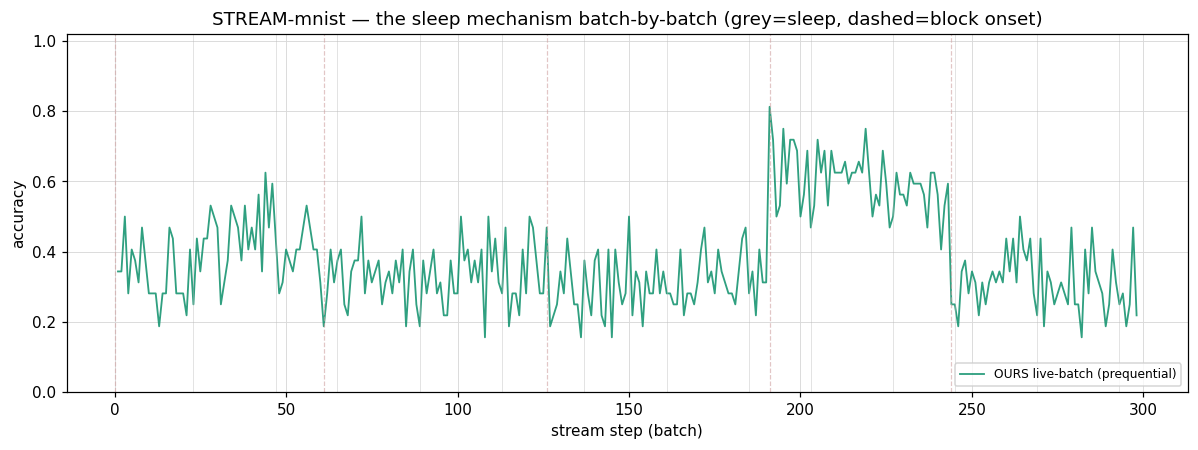
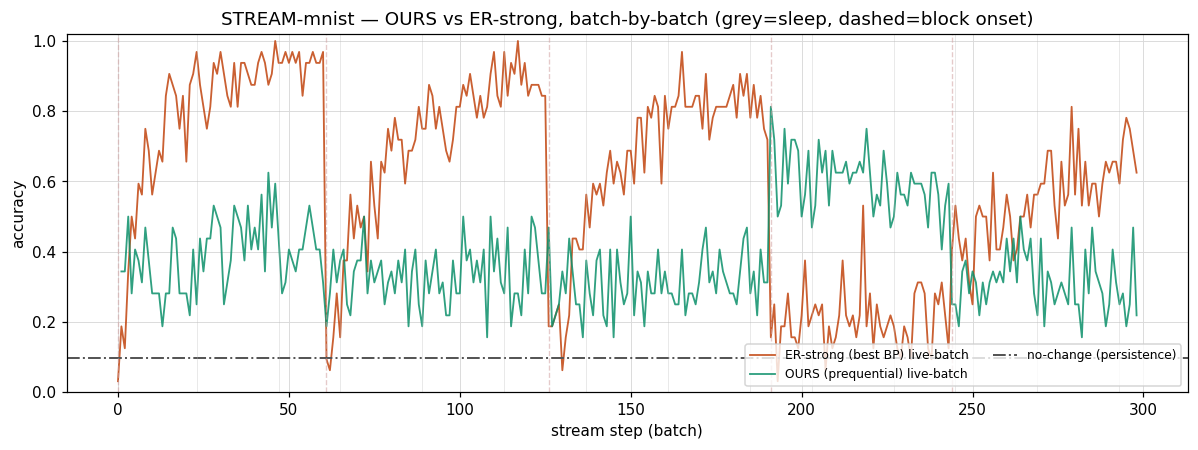
feat(draft6/phase11): overlay ER-strong on the P11.2 MNIST STREAM (the last figure made comparable)
Every stream figure below P11.2 now shows OURS vs ER-strong, which left the MNIST
rung's STREAM view (OURS only) reading as uncomparable. This adds the same
overlay so a reader can judge P11.2 the same way as the rest.

- run_p11_2 captures the stronger-ER per-batch prequential curve (bp_prequential,
  Arm-B long, seed 0 — same stream as the stored OURS curve) + the persistence
  floor. Backward-compatible; no RNG touched -> table reproduces bit-for-bit
  (verified against the committed manifest: zero scalar drift).
- fig_stream needed no change: mnist is a block-structured gauntlet (not in the
  band set), so it draws raw OURS vs ER + no-change + onsets, matching xdata.

The figure now draws the rung's tradeoff directly: ER (orange) rides higher
WITHIN each stationary domain but crashes at every domain switch (forget-and-
relearn sawtooth); OURS (teal) rides lower but far flatter, never collapsing at a
switch -> ER wins raw accuracy inside a domain, OURS wins stability across the
switches (long worst-BWT -0.046 vs ER -0.162, ~3.5x safer). Both clear persistence.

Docs: phase11-report §2 caption, README P11.2 line, exp2 card. Figure regenerated.

diff --git a/draft6.0/src/phase11/run_p11_2.py b/draft6.0/src/phase11/run_p11_2.py
@@ -30,7 +30,10 @@ def gauntlet_fight(arm, cfg, regime, seeds, er_cfg):
         out["ours"]["aa"].append(res["aa"]); out["ours"]["worst_bwt"].append(res["worst_bwt"]); out["ours"]["ret"].append(r["worst"])
         if seed == seeds[0]:
             pq = P.ours_prequential(cache, res, cfg, seed)
-            curves = dict(live=pq["live"], sleeps=res["sleeps"].astype(float), onsets=np.array(stream["real_onsets"]))
+            er_pq = P.bp_prequential(stream, "er", er_cfg["bp_dims"], cfg, seed,     # ER overlay for the STREAM view
+                                     lr=er_cfg["lr"], replay=er_cfg["replay"], buffer_cap=er_cfg["buffer_cap"])
+            curves = dict(live=pq["live"], er_live=er_pq["live"], nochange=P.nochange_baseline(stream),
+                          sleeps=res["sleeps"].astype(float), onsets=np.array(stream["real_onsets"]))
         for pol in ["er", "naive"]:
             m = P.run_bp_stream(stream, pol, er_cfg["bp_dims"], cfg, seed, lr=er_cfg["lr"],
                                 replay=(er_cfg["replay"] if pol == "er" else 0),
@@ -79,6 +82,8 @@ for arm, cfg in [("A", P.arm_a_cfg(10)), ("B", P.recipe_instance(80, 10))]:
                                         er_aa=med(ea), er_bwt=med(eb), er_ret=med(err_))
         if regime == "long" and curves is not None:
             arrays[f"streamlive_ours_mnist"] = curves["live"]
+            arrays[f"streamlive_er_mnist"] = curves["er_live"]
+            arrays[f"nochange_mnist"] = np.array([curves["nochange"]])
             arrays[f"streamsleeps_ours_mnist"] = curves["sleeps"]
             arrays[f"stream_onsets_mnist"] = curves["onsets"]
     oi = order_inv(arm, cfg, er)

diff --git a/draft6.0/src/phase11/phase11-report.md b/draft6.0/src/phase11/phase11-report.md
@@ -133,10 +133,14 @@ does Arm B's larger input dimension recover any of the porthole's projection los
 
 ![P11.2 MNIST rung — the sleep loop batch-by-batch](exp2/figs_p11_2/STREAM_mnist.png)
 
-*The mandated STREAM view — the object's prequential accuracy on the native-MNIST gauntlet, batch by batch, sleeps in
-grey and domain switches in dashed pink. This is the author's ask made literal: watch the loop live, good moments and
-bad. The line rides the low-0.4s through the hard noised/transformed domains and lifts into the clean domain
-(batches ~190–240) — never collapsing at a switch. It is a **continual-stability** trace, not a static-accuracy one.*
+*The mandated STREAM view — now with the best BP baseline overlaid (the Arm-B D80 stream, ER-strong tuned for this
+arm), and it draws the continual-stability tradeoff in one picture. **ER (orange) rides higher within each stationary
+domain** — climbing to 0.8–1.0 — but **crashes at every domain switch** (the dashed onsets: down toward ~0.1 as the
+appearance shifts under its fixed head), a sawtooth of forget-and-relearn. **OURS (teal) rides lower but far flatter**
+(~0.3–0.5, lifting into the easy domain around batch 190), and it never collapses at a switch. That is the whole rung:
+ER wins raw accuracy *inside* a domain, OURS wins **stability across the switches** (long-regime worst-BWT −0.046 vs
+ER −0.162, ~3.5× safer at its worst point). Both clear the persistence floor (0.097). A **continual-stability** trace,
+not a static-accuracy one.*
 
 **What the result means.** The bet **holds on real data.** OURS wins continual safety in every cell — decisively on
 the long regime (the E8 primary read), forgetting **~4–16× less** than a per-arena-tuned ER — wins retention on long

diff --git a/draft6.0/src/phase11/exp2/experiment-2.md b/draft6.0/src/phase11/exp2/experiment-2.md
@@ -34,8 +34,9 @@ the fight tables + order-invariance.
 
 **Read (8 slots).** 1 *Claim* — the frozen recipe survives real MNIST: it wins continual safety, retention (long),
 and order-invariance vs a per-arm-tuned ER, and Arm B scales. 2 *Headline* — long-regime worst-BWT −0.012/−0.046
-(OURS) vs −0.196/−0.162 (ER); Arm B AA 0.421 vs Arm A 0.284. 3 *Figures* — `STREAM_mnist.png` (the sleep staircase,
-long regime). 4 *Mechanism* — the closed-form namer never catastrophically forgets; the gate + sleep hold it; ER's
+(OURS) vs −0.196/−0.162 (ER); Arm B AA 0.421 vs Arm A 0.284. 3 *Figures* — `STREAM_mnist.png` (OURS vs ER-strong,
+Arm-B long regime — ER rides higher within a domain but crashes at each switch, OURS flatter; the safety story
+visible; + persistence floor). 4 *Mechanism* — the closed-form namer never catastrophically forgets; the gate + sleep hold it; ER's
 gradient head re-converges per long block and forgets at the switch (the P10.3 length-effect, on MNIST). 5 *Threats*
 — **projection loss** dominates absolute AA (40-D porthole on 784-D MNIST; Arm B bounds it, D=160 would bound more);
 the anchor is un-validated at raw-784 (owed); retention is a harsh worst-point min. 6 *Verdict* — **bet holds**

diff --git a/draft6.0/src/phase11/README.md b/draft6.0/src/phase11/README.md
@@ -51,7 +51,8 @@ CIFAR-gray floors, the streaming canon floors under label-persistence — ship i
 - **P11.2 — the MNIST rung (bet HOLDS).** Native-784 gauntlet, both switch regimes, both arms, vs per-arm-tuned ER.
   Safety WINS every cell (long-regime worst-BWT −0.012/−0.046 vs ER −0.196/−0.162); retention WINS on long blocks;
   order-invariance holds (|fwd−rev| 0.003/0.011); static AA trails; **Arm B (D80) scales** (AA 0.284→0.421,
-  retention 0.223→0.314). → [`exp2/experiment-2.md`](exp2/experiment-2.md) · `STREAM_mnist.png`.
+  retention 0.223→0.314). → [`exp2/experiment-2.md`](exp2/experiment-2.md) · `STREAM_mnist.png` (**OURS vs ER-strong**
+  — ER rides higher within a domain but crashes at each switch; OURS flatter, the safety story visible).
 - **P11.3 — the real-world streams (the headline).** Prequential balanced accuracy vs the stronger ER + no-change +
   sgd-linear + first-block-frozen. **gas WINS** — OURS-A 0.789 ≥ stronger-ER 0.756, beats persistence 0.605 by
   +0.184 (Arm B 0.856); the frozen recipe is the best online learner on a famous real sensor-drift benchmark.